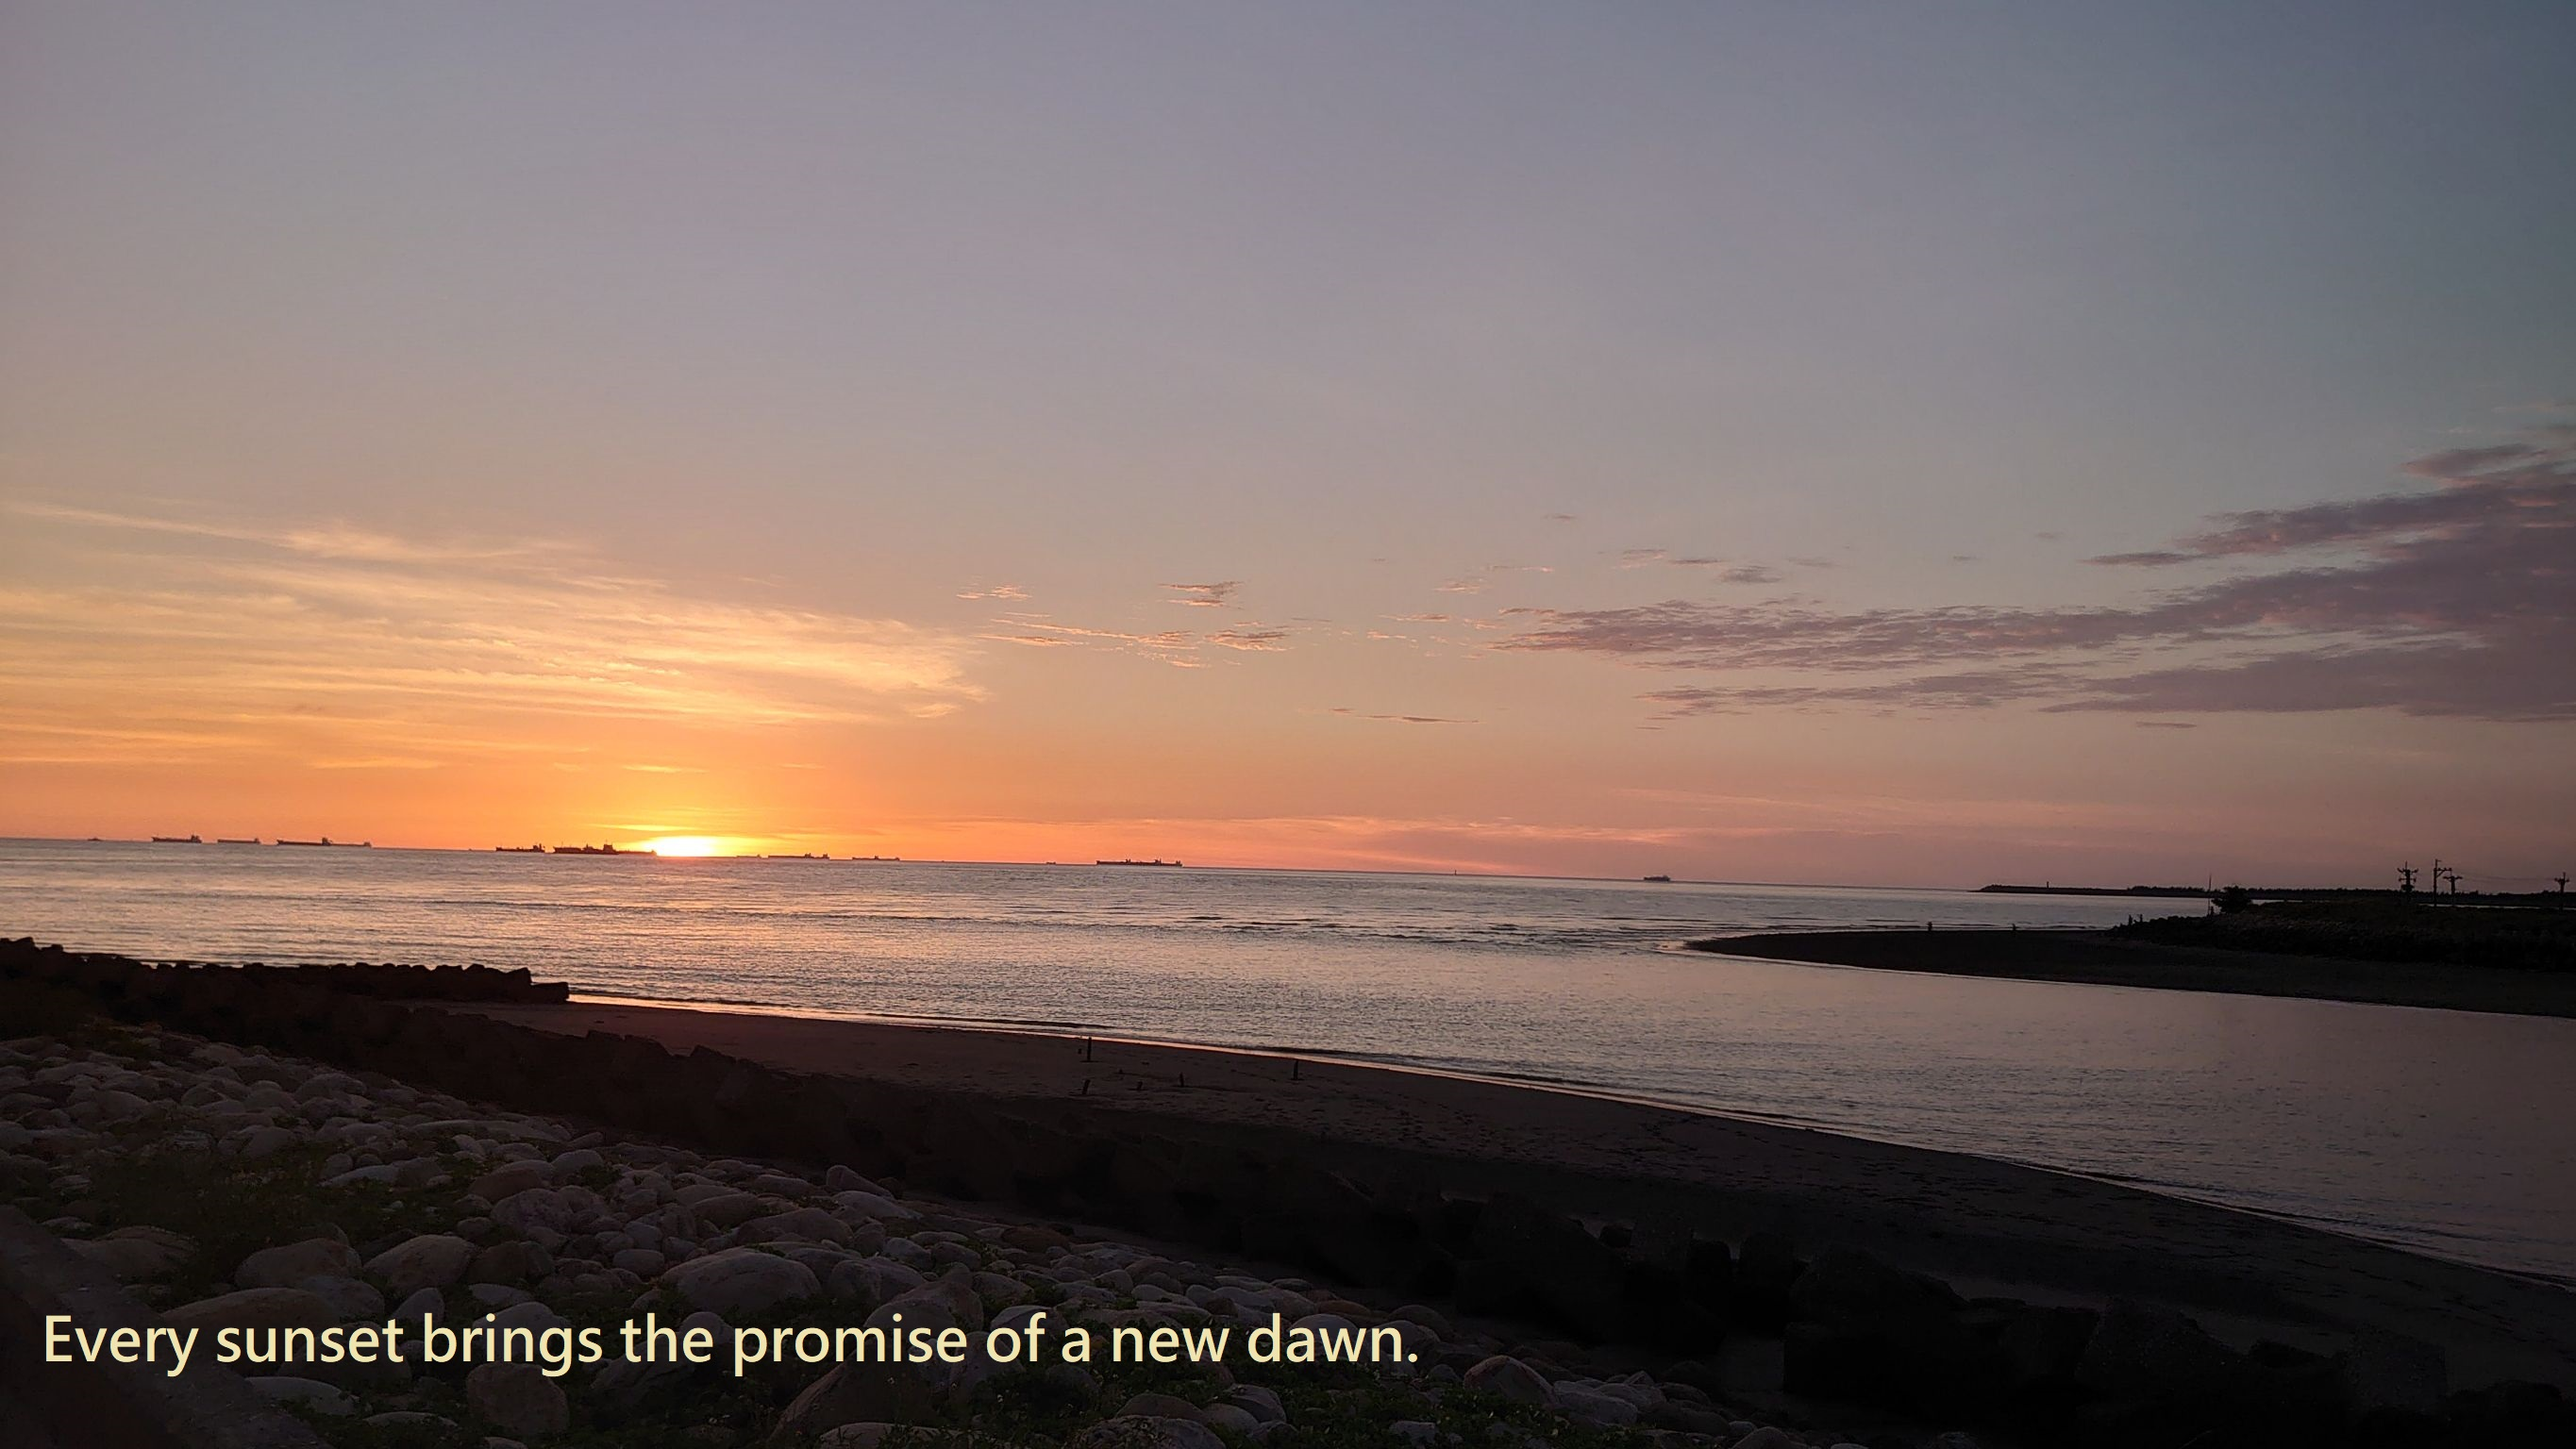
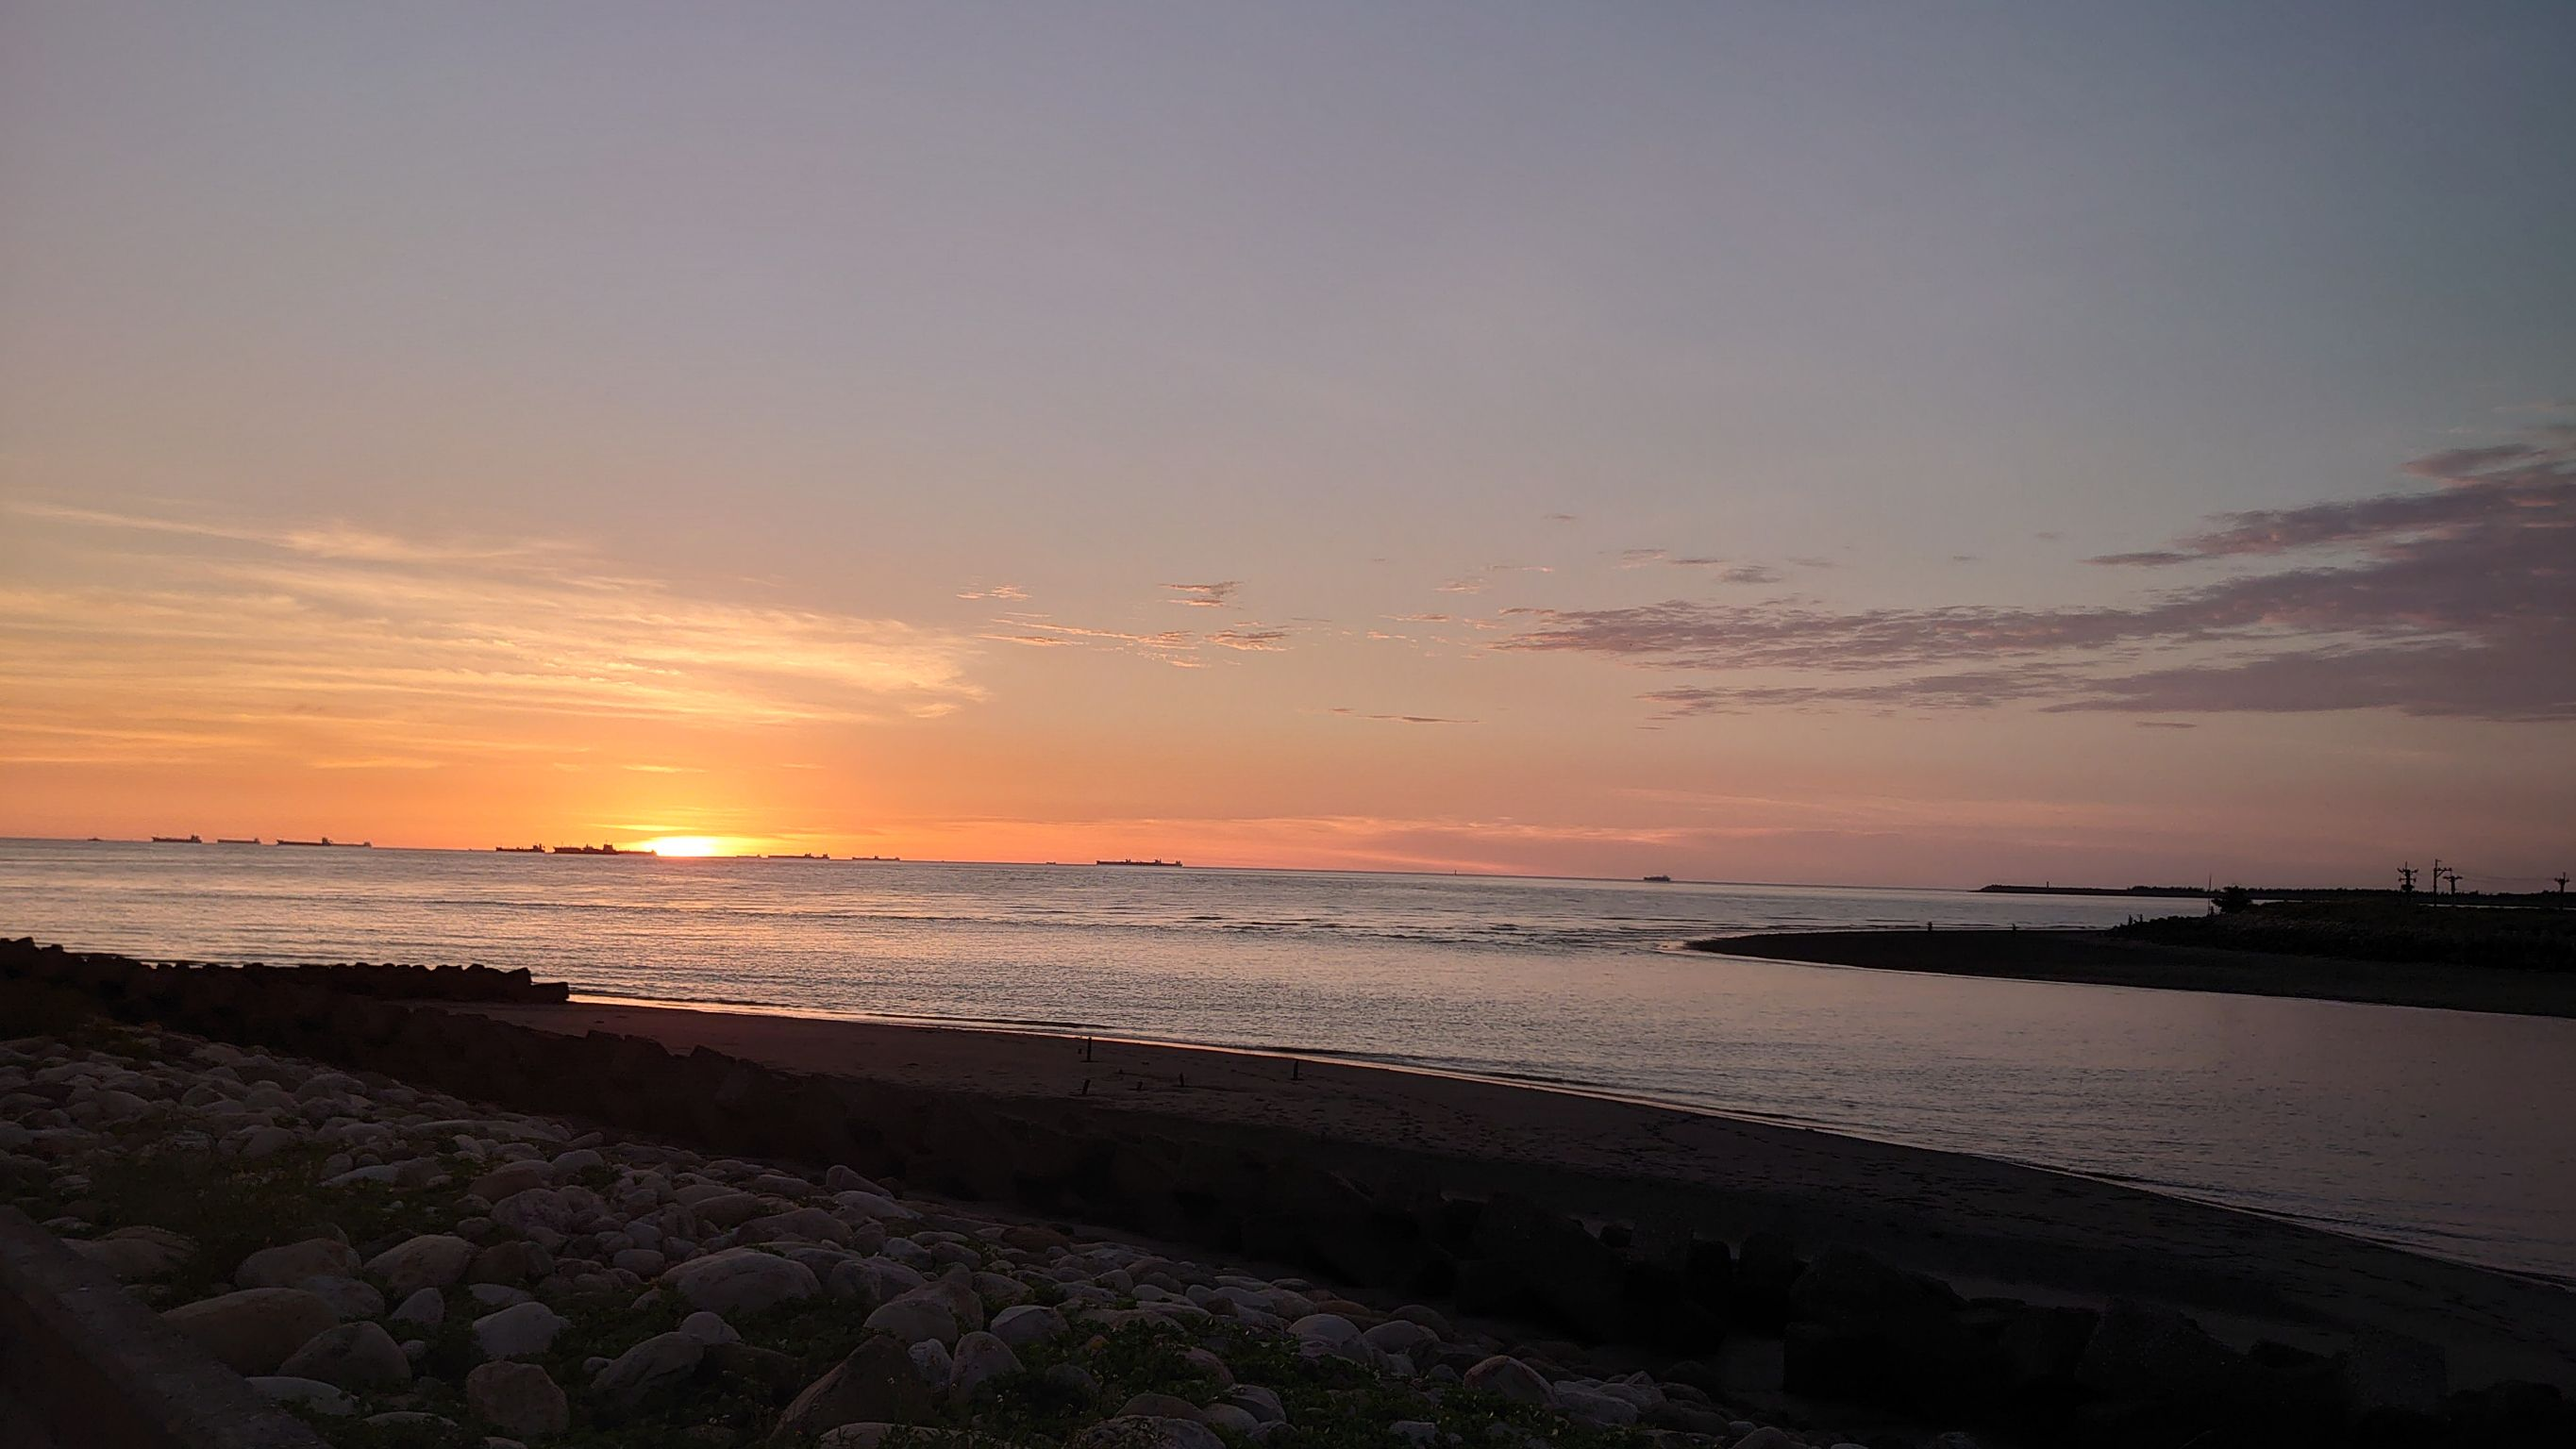
update

Changed region(s): [[0.0, 0.9062, 0.5604, 0.9375]]

diff --git a/首頁資料/indexPage.css b/首頁資料/indexPage.css
@@ -1,15 +1,17 @@
 ::-webkit-scrollbar{display: none;}
 a{ text-decoration: none; }
-*{font-family: 'Segoe UI', Tahoma, Geneva, Verdana, sans-serif;}
+*{font-family: "Microsoft JhengHei", Tahoma, Geneva, Verdana, sans-serif;font-weight:bold;}
 
-article{position: relative;}
+article{position: relative;left: 0px;right: 0px;}
 article h1{
     position: relative;top: 0px; text-align: center;border: 3px solid;width: 30%;left: 35%;border-radius: 50px;
 }
 article section img{position: relative; width:  calc(5vh + 5vw); height: calc(5vh + 5vw);margin: calc(1vh + 1vw);}
+article section img:hover{animation-duration: 0.2s;animation-name: scalesOut;animation-fill-mode: forwards;}
 
 .welcome{position: absolute;left: 0px;right: 0px; top: 0px; overflow: hidden;}
 .welcome img{position: absolute;bottom: 0px; width: 100%;}
+.welcome span{position: absolute;bottom: 15px;left: 15px;font-size: calc(2vw + 2vh);font-family:"Microsoft JhengHei";}
 @media screen and (max-height:56vw){
     .welcome{height: 100vh;}
     article{top:100vh;}
@@ -20,11 +22,13 @@ article section img{position: relative; width:  calc(5vh + 5vw); height: calc(5v
 }
 
 .page img{position: absolute;top: 1vh;right: 1vw;height: 8vh;width: 8vh; z-index: 6;}
-.page section{position: absolute;top: 9vh;right: 1vw;z-index: 6;width: 20vh;visibility: hidden;}
+@keyframes scalesOut{0%{scale:1.1;}100%{scale:1.4;}}
+.page section{position: absolute;top: 9vh;right: 1vw;z-index: 6;width: calc(10vh + 10vw);visibility: hidden;}
 .page:hover section{visibility: visible;}
 .page section a h1{position: relative; left: 1vw;}
 
-.page section a h1{color: antiquewhite;}
-.page section{background-color:rgba(7,35,91,0.5)}
-body{background-color: rgba(0, 0, 0, 1); color: antiquewhite;}
-article h3{border-color: antiquewhite;}
+.page section a h1{color: wheat;}
+.page section{background-color:rgba(7,35,91,0.3)}
+body{background-color: rgba(0, 0, 0, 1); color: wheat;}
+article h3{border-color: wheat;}
+article{background:linear-gradient(to bottom,#000000,#222222 30%,#000000 ) ;}

diff --git a/index.html b/index.html
@@ -12,7 +12,7 @@
 </head>
 <body>
     <main>
-        <div class="welcome"><img src="首頁資料/welcome.jpg"></div>
+        <div class="welcome"><img src="首頁資料/welcome.jpg"><span>Every sunset brings the promise of a new dawn.</span></div>
 
         <div class="page">
             <img src="首頁資料/icon/分頁.png">
